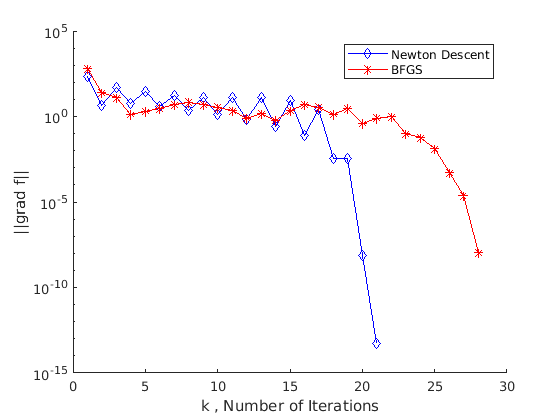
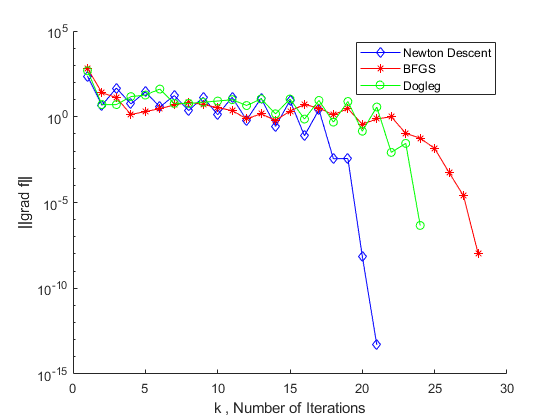
added the convergence of dogleg method

diff --git a/miniproject_1/q4/q4.m b/miniproject_1/q4/q4.m
@@ -29,7 +29,7 @@ hold off
 
 %% SR1 Trust region
 
-[iteratesSR1, gradientsSR1, deltas ] = SR1([-1,-1]', eye(2), 2, 1e-4, 8, 50)
+[iteratesSR1, gradientsSR1, deltas ] = SR1([-1,-1]', eye(2), 1, 1e-4, 8, 50)
 
 %% SR1 convergence plot
 figure
@@ -49,9 +49,10 @@ figure
 set(gca, 'YScale', 'log')
 hold on;
 load NewtonGradientNorm.mat
+load DoglegGradients.mat
 plot(Grad_Norm, 'bd-', 'DisplayName','Newton Descent')
 plot(gradients,'r*-', 'DisplayName','BFGS')
-%plot(gradientsSR1,'go-','DisplayName','SR1 Trust Region')
+plot(dgradients,'go-','DisplayName','Dogleg')
 xlabel('k , Number of Iterations')
 ylabel('||grad f||')
 hold off;

diff --git a/miniproject_1/q2/dogleg_submit.m b/miniproject_1/q2/dogleg_submit.m
@@ -19,11 +19,12 @@ max_iter = 300;
 iter = 0;               
 tol = 1E-10; %stopping tolerance           
 change = inf;           
-
+dgradients = [];
 x_all = x_k; 
 
 while change > tol && iter <= max_iter
    
+    dgradients(:,end+1) = norm(grad_f(x_k))
     B = hessian_f(x_k);
     g = grad_f(x_k);
     f_k = f(x_k);
@@ -37,7 +38,7 @@ while change > tol && iter <= max_iter
     else
         p_U = -g'*g/(g'*B*g)*g;
         if norm(p_U) >= delta
-            p_k = delta*p_U/np_U;
+            p_k = delta*p_U/norm(p_U);
         else
             % Find tau as positive root of polynomial
             p_C = p_B - p_U;

diff --git a/miniproject_1/q4/SR1.m b/miniproject_1/q4/SR1.m
@@ -61,7 +61,7 @@ function [ iterates, gradients, deltas ] = SR1( x0, B0, delta0, eps, del_max, ma
             if norm(sk) <= 0.8 * delta{1}
                 delta{2} = delta{1};
             else
-                delta{2} = min(2 * delta{1}, del_max);
+                delta{2} = 2 * delta{1};
             end
         elseif rho >= 0.1 & rho <= 0.75
             delta{2} = delta{1};
